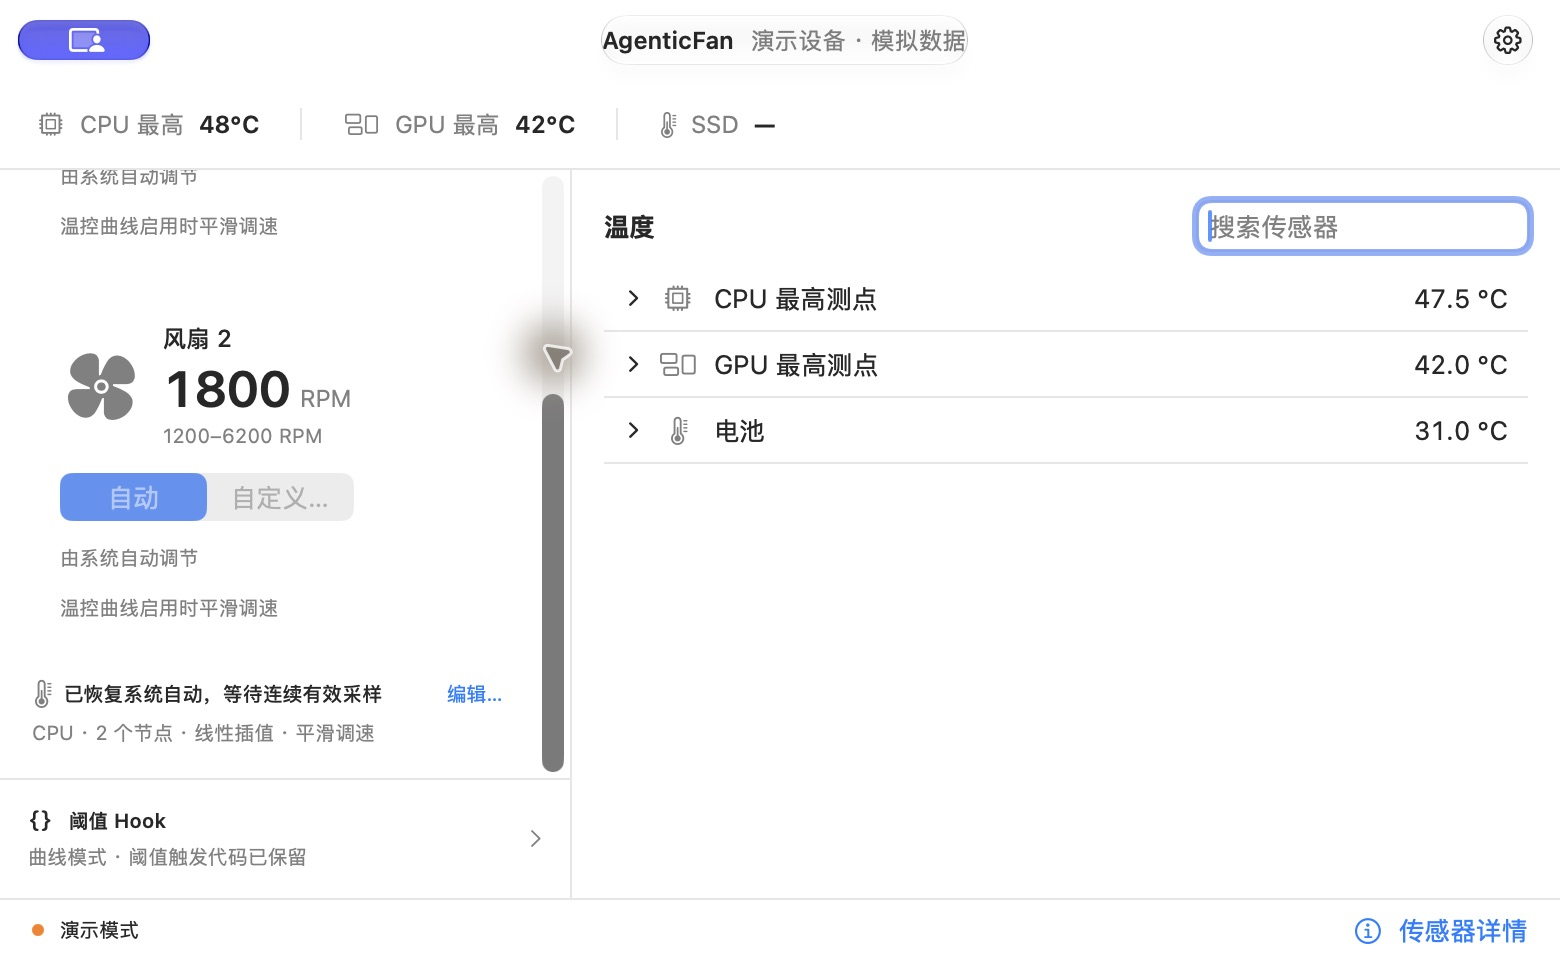
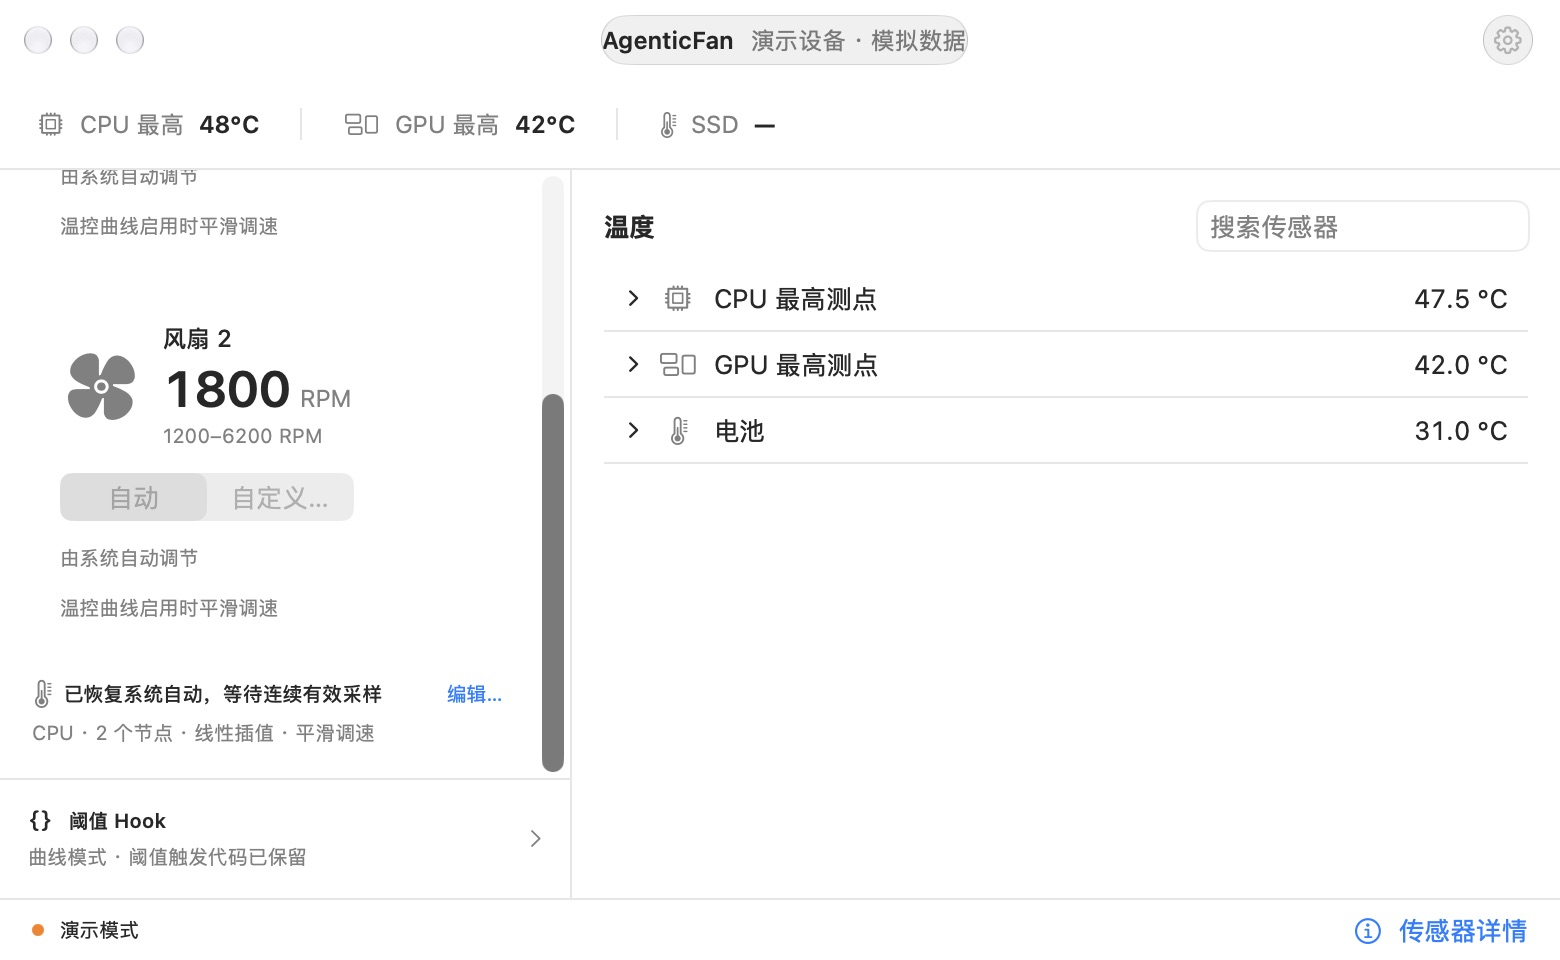
Respect explicit disable during recovery and verify macOS runtime compatibility

diff --git a/packaging/macos/test_install.py b/packaging/macos/test_install.py
@@ -41,9 +41,12 @@ def main():
         original = {settings / 'rules.json': b'{"version":1,"enabled":false,"fan":0,"rules":[{"id":"retained","enabled":true,"sensor_group":"cpu","trigger_celsius":99,"release_celsius":95,"release_seconds":5,"target_rpm":"max"}]}',
                     hooks / 'custom.sh': b'#!/bin/sh\n# preserved\n'}
         for path, content in original.items(): path.write_bytes(content)
-        from test_service_vm import hosted_mac, exercise, previous_release
-        previous_dmg = args.previous_dmg or (previous_release(work) if args.dmg and hosted_mac() else None)
-        if previous_dmg:
+        from test_service_vm import hosted_mac, exercise, previous_release, seed_published_app, legacy_app_for_vm
+        hosted_fixture = args.dmg and hosted_mac() and not args.previous_dmg
+        previous_dmg = args.previous_dmg or (previous_release(work) if hosted_fixture else None)
+        if hosted_fixture:
+            old_digest = seed_published_app(previous_dmg, work, user)
+        elif previous_dmg:
             run("/bin/bash", ROOT / "scripts/install-macos.sh", "--dmg", previous_dmg.resolve(),
                 "--agent", "both", "--user-root", user, timeout=180)
             previous_version = run(user / ".local/bin/agenticfan", "--version").stdout.strip()
@@ -72,12 +75,17 @@ def main():
         backups = list((user / "Applications").glob("AgenticFan.previous.*.app"))
         assert len(backups) == (1 if previous_dmg else 0)
         if previous_dmg:
-            assert run(backups[0] / "Contents/MacOS/agenticfan", "--version").stdout.strip() == previous_version
+            previous_cli = backups[0] / "Contents/MacOS/agenticfan"
+            if hosted_fixture:
+                assert hashlib.sha256(previous_cli.read_bytes()).digest() == old_digest
+            else:
+                assert run(previous_cli, "--version").stdout.strip() == previous_version
             assert run(binary, "--version").stdout.strip() == info["CFBundleShortVersionString"]
             for folder in (".agents", ".claude"):
                 marker = user / folder / "skills/agenticfan/installation.json"
                 assert json.loads(marker.read_text())["version"] == info["CFBundleShortVersionString"]
-            print("PASS: actual 0.4.5 app, CLI and both skills upgraded in place")
+            print("PASS: published 0.4.5 app replaced; original binary retained; new CLI and both skills installed"
+                  if hosted_fixture else "PASS: actual 0.4.5 app, CLI and both skills upgraded in place")
         run(*command, timeout=180)
         assert (user / ".zprofile").read_text() == profile
         assert list((user / "Applications").glob("AgenticFan.previous.*.app")) == backups
@@ -99,7 +107,8 @@ def main():
             (pair / 'AgenticFanControlWorker').unlink()
             (pair / 'AgenticFanControlWorker').symlink_to(executable.parent / 'AgenticFanControlWorker')
             assert subprocess.run([str(pair/'AgenticFanService'), '--verify-worker']).returncode != 0
-            if hosted_mac() and args.dmg: exercise(executable.parents[2], backups[0])
+            if hosted_mac() and args.dmg:
+                exercise(executable.parents[2], legacy_app_for_vm(work, backups[0]))
         demo_env = dict(os.environ, AGENTICFAN_DEMO_DIR=str(work / "demo"))
         demo = json.loads(run(binary, "--demo", "doctor", env=demo_env).stdout)
         assert demo["simulated"] and demo["data"]["monitoring_available"]

diff --git a/packaging/macos/test_service_vm.py b/packaging/macos/test_service_vm.py
@@ -33,6 +33,48 @@ def previous_release(work):
     return target
 
 
+def seed_published_app(dmg, work, user):
+    """Verify/replace the genuine artifact even where its embedded Python cannot start."""
+    mount = work / 'published'; mount.mkdir()
+    app = user / 'Applications/AgenticFan.app'; app.parent.mkdir()
+    subprocess.run(['hdiutil', 'attach', '-quiet', '-readonly', '-nobrowse', '-mountpoint', mount, dmg], check=True)
+    try:
+        subprocess.run(['/usr/bin/ditto', mount/'AgenticFan.app', app], check=True)
+    finally:
+        subprocess.run(['hdiutil', 'detach', mount], check=True)
+    subprocess.run(['/usr/bin/codesign', '--verify', '--deep', '--strict', app], check=True)
+    assert plistlib.loads((app/'Contents/Info.plist').read_bytes())['CFBundleShortVersionString']=='0.4.5'
+    cli = app/'Contents/MacOS/agenticfan'
+    link = user/'.local/bin/agenticfan'; link.parent.mkdir(parents=True); link.symlink_to(cli)
+    return hashlib.sha256(cli.read_bytes()).digest()
+
+
+def legacy_app_for_vm(work, published):
+    cli = published/'Contents/MacOS/agenticfan'
+    version = subprocess.run([cli,'--version'], capture_output=True, text=True)
+    if version.returncode == 0 and version.stdout.strip() == '0.4.5':
+        return published
+    # The pinned official DMG links its Python to macOS 27 (_dup3 is absent
+    # on macOS 15). Never substitute a stub daemon. Rebuild the exact released
+    # CLI/daemon with its own spec and the VM's compatible Python instead.
+    if '_dup3' not in version.stderr or 'newer than running OS' not in version.stderr:
+        raise RuntimeError('Unexpected error starting the published legacy CLI: '+version.stderr)
+    commit = '3d73cce04dfec87d134a4fdee497dbd5f0bbbf41'
+    src = work/'legacy-source'
+    subprocess.run(['git', 'init', '-q', src],check=True)
+    subprocess.run(['git','-C',src,'fetch','-q','--depth=1','https://github.com/timmyagentic/agentic-fan.git',commit],check=True)
+    subprocess.run(['git','-C',src,'checkout','-q','--detach','FETCH_HEAD'],check=True)
+    assert subprocess.check_output(['git','-C',src,'rev-parse','HEAD'],text=True).strip()==commit
+    products = work/'legacy-products'
+    subprocess.run([sys.executable, '-m', 'PyInstaller', '--clean', '--noconfirm',
+                    '--distpath', products, '--workpath', work/'legacy-build',
+                    src/'packaging/macos/agenticfan.spec'], cwd=src, check=True)
+    result = products/'AgenticFan.app'
+    assert subprocess.check_output([result/'Contents/MacOS/agenticfan','--version'],text=True).strip()=='0.4.5'
+    print(f'Legacy runtime: exact v0.4.5 source {commit} rebuilt for this VM (published Python needs macOS 27)')
+    return result
+
+
 def exercise(app, previous_app):
     if not hosted_mac():
         raise RuntimeError('Requires a disposable GitHub-hosted macOS VM')

diff --git a/packaging/macos/build.py b/packaging/macos/build.py
@@ -9,6 +9,7 @@ import os
 from pathlib import Path
 import platform
 import plistlib
+import re
 import runpy
 import shutil
 import struct
@@ -21,6 +22,18 @@ ROOT = Path(__file__).resolve().parents[2]
 
 def run(*args, **kwargs):
     return subprocess.run([str(arg) for arg in args], check=True, **kwargs)
+
+
+def verify_python_target(library):
+    # PyInstaller embeds this exact library in both the CLI and the root worker.
+    # Changing MACOSX_DEPLOYMENT_TARGET cannot lower a prebuilt dylib's minimum.
+    result = run("xcrun", "vtool", "-arch", "arm64", "-show-build", library,
+                 capture_output=True, text=True)
+    targets = re.findall(r"^\s*minos\s+([\d.]+)\s*$", result.stdout, re.MULTILINE)
+    if not targets or any(tuple(map(int, t.split("."))) > (15, 0, 0) for t in targets):
+        raise RuntimeError(f"Embedded Python must support macOS 15.0 (found {', '.join(targets) or 'unknown'}). "
+                           "Use a compatible arm64 Python distribution before packaging.")
+    return targets[0]
 
 
 def hook_smoke(executable: Path, directory: Path, env):
@@ -185,6 +198,8 @@ def main(argv=None):
         if not shutil.which(tool):
             parser.error(f"Required macOS build tool is missing: {tool}")
     import PyInstaller
+    from PyInstaller.depend.bindepend import get_python_library_path
+    python_minos = verify_python_target(get_python_library_path())
 
     version = runpy.run_path(str(ROOT / "agenticfan" / "__init__.py"))["__version__"]
     flavor = "" if args.notary_profile else "-signed-unnotarized" if args.identity else "-dev"
@@ -272,7 +287,7 @@ def main(argv=None):
     dmg.with_suffix(".dmg.sha256").write_text(f"{digest}  {dmg.name}\n")
     metadata = {
         "artifact": dmg.name, "version": version, "architecture": "arm64", "minimum_macos": "15.0",
-        "python": platform.python_version(), "pyinstaller": PyInstaller.__version__,
+        "python": platform.python_version(), "python_minimum_macos": python_minos, "pyinstaller": PyInstaller.__version__,
         "signing": "developer_id" if args.identity else "ad_hoc", "notarized": bool(args.notary_profile),
         "verified": ["bundled_service_digest", "isolated_service_entry", "project_license", "codesign", "hdiutil", "mounted_app", "bundled_cli", "hook_file_workflow", "temperature_curve_workflow", "demo_guardian", "demo_gui", "demo_temperature_quality", "demo_menu_bar_startup"],
         "hardware_verified": False, "sha256": digest,

diff --git a/agenticfan/rules.py b/agenticfan/rules.py
@@ -435,6 +435,9 @@ class Runner:
                 self.document = doc
                 self.pause = None
             config = self.document.config
+            if not config["enabled"]:
+                self.recovering = False
+                self.first_fresh = None
             if fresh:
                 decision = self.evaluator.evaluate(sample, now)
             else:
@@ -491,7 +494,7 @@ class Runner:
         if self.recovering:
             # Never resume on stale data or take over another manual owner. Two
             # distinct, consecutive observations avoid flapping after wake/gaps.
-            if just_restored or error or self.pause or not fresh or not config or not config["enabled"] or not decision.get("readings_available"):
+            if just_restored or error or self.pause or not fresh or not decision.get("readings_available"):
                 self.first_fresh = None
             elif not self.last_fan or self.last_fan.get("mode") != "auto":
                 self.pause = "Fan ownership changed during recovery. Reapply after verifying automatic mode."

diff --git a/tests/test_rules.py b/tests/test_rules.py
@@ -199,6 +199,18 @@ class RulesTests(unittest.TestCase):
             self.assertEqual(runner.tick(sample(), now)["status"], "disabled")
             self.assertIsNone(runner.control)
 
+    def test_disable_after_recovery_started_clears_wait_immediately(self):
+        runner = self.runner()
+        runner.tick(sample(), 0)
+        runner.control.restored = True
+        runner.control.reason = "lease_expired"
+        runner.control.exit_code = 0
+        self.assertEqual(runner.tick(sample(), 1)["status"], "recovering")
+        rules.save(self.path, config(enabled=False))
+        self.assertEqual(runner.tick(sample(), 2)["status"], "disabled")
+        self.assertIsNone(runner.control)
+        self.assertFalse(runner.recovering)
+
     def test_final_receipt_can_arrive_after_snapshot_saw_our_manual_fan(self):
         runner = self.runner()
         runner.tick(sample(), 0)

diff --git a/docs/macos-packaging.md b/docs/macos-packaging.md
@@ -10,7 +10,7 @@ AgenticFan 常驻菜单栏，打开主窗口、关闭窗口和收起菜单栏弹
 
 ## 在 Apple Silicon Mac 构建
 
-需要 macOS 15+、arm64 Python 3.12、Xcode Command Line Tools 和可用的桌面会话。不要使用 Rosetta 下的 x86_64 Python。
+需要 macOS 15+、支持 macOS 15.0 的 arm64 Python 3.12、Xcode Command Line Tools 和可用的桌面会话。构建器检查实际嵌入的 Python 动态库的最低系统版本；在较新的 Mac 上仅设置环境变量不会让旧系统能加载它。不要使用 Rosetta 下的 x86_64 Python。
 
 ```sh
 python3 -m venv .venv
@@ -31,6 +31,8 @@ python3 -m venv .venv
 ## 内置控扇服务
 
 0.4.6 构建同时生成独立硬件 worker 和原生服务入口；先签 worker，固定其 SHA-256 后编译签名入口，加入包内 LaunchDaemon plist，最后签主 App。挂载前后校验入口与 worker 是否配对。隔离安装跳过服务注册；一次性 GitHub-hosted macOS VM 还会启动成品 root 服务、执行无硬件写入的旧 launchd 作业迁移。它不代替公证 App 经 macOS 系统设置批准的验收。
+
+0.4.5 正式包的 Python 依赖 macOS 27，不能在 macOS 15 上启动。迁移测试在 macOS 15 上分别验证：替换并完整保留原正式包的可执行文件；使用原版 v0.4.5 提交和打包定义重建可运行的旧服务，再实际迁移。可运行正式包的系统可直接用 `test_install.py --dmg 新包 --previous-dmg 旧包` 验证完整升级。
 
 ## 构建检查
 

diff --git a/CHANGELOG.md b/CHANGELOG.md
@@ -2,6 +2,8 @@
 
 ## Unreleased
 
+- Reject a bundled Python runtime that cannot load on the supported macOS 15 minimum.
+
 - Bundle the permission-isolated fan service and manage registration, idle upgrades and migration from 0.4.5 with the app. Preserve the existing user grant, rules, curves and Hooks. Recover known sampling/lease interruptions after verified automatic mode and two fresh observations; leave external stops and hardware failures paused.
 
 ## 0.4.5 — 2026-11-01

diff --git a/CHANGELOG.zh-Hans.md b/CHANGELOG.zh-Hans.md
@@ -2,6 +2,8 @@
 
 ## Unreleased
 
+- 打包时校验内置 Python 确实支持 macOS 15，阻止生成仅能在更新系统上运行的安装包。
+
 - 控扇服务内置到 App，统一注册、空闲升级并迁移 0.4.5 的旧服务，保留已有账户授权、曲线、阈值规则和 Hook。已知采样/租约中断在恢复自动模式并连续获得两次新鲜数据后继续；外部停止和硬件故障保持暂停。
 
 ## 0.4.5 — 2026-11-01
